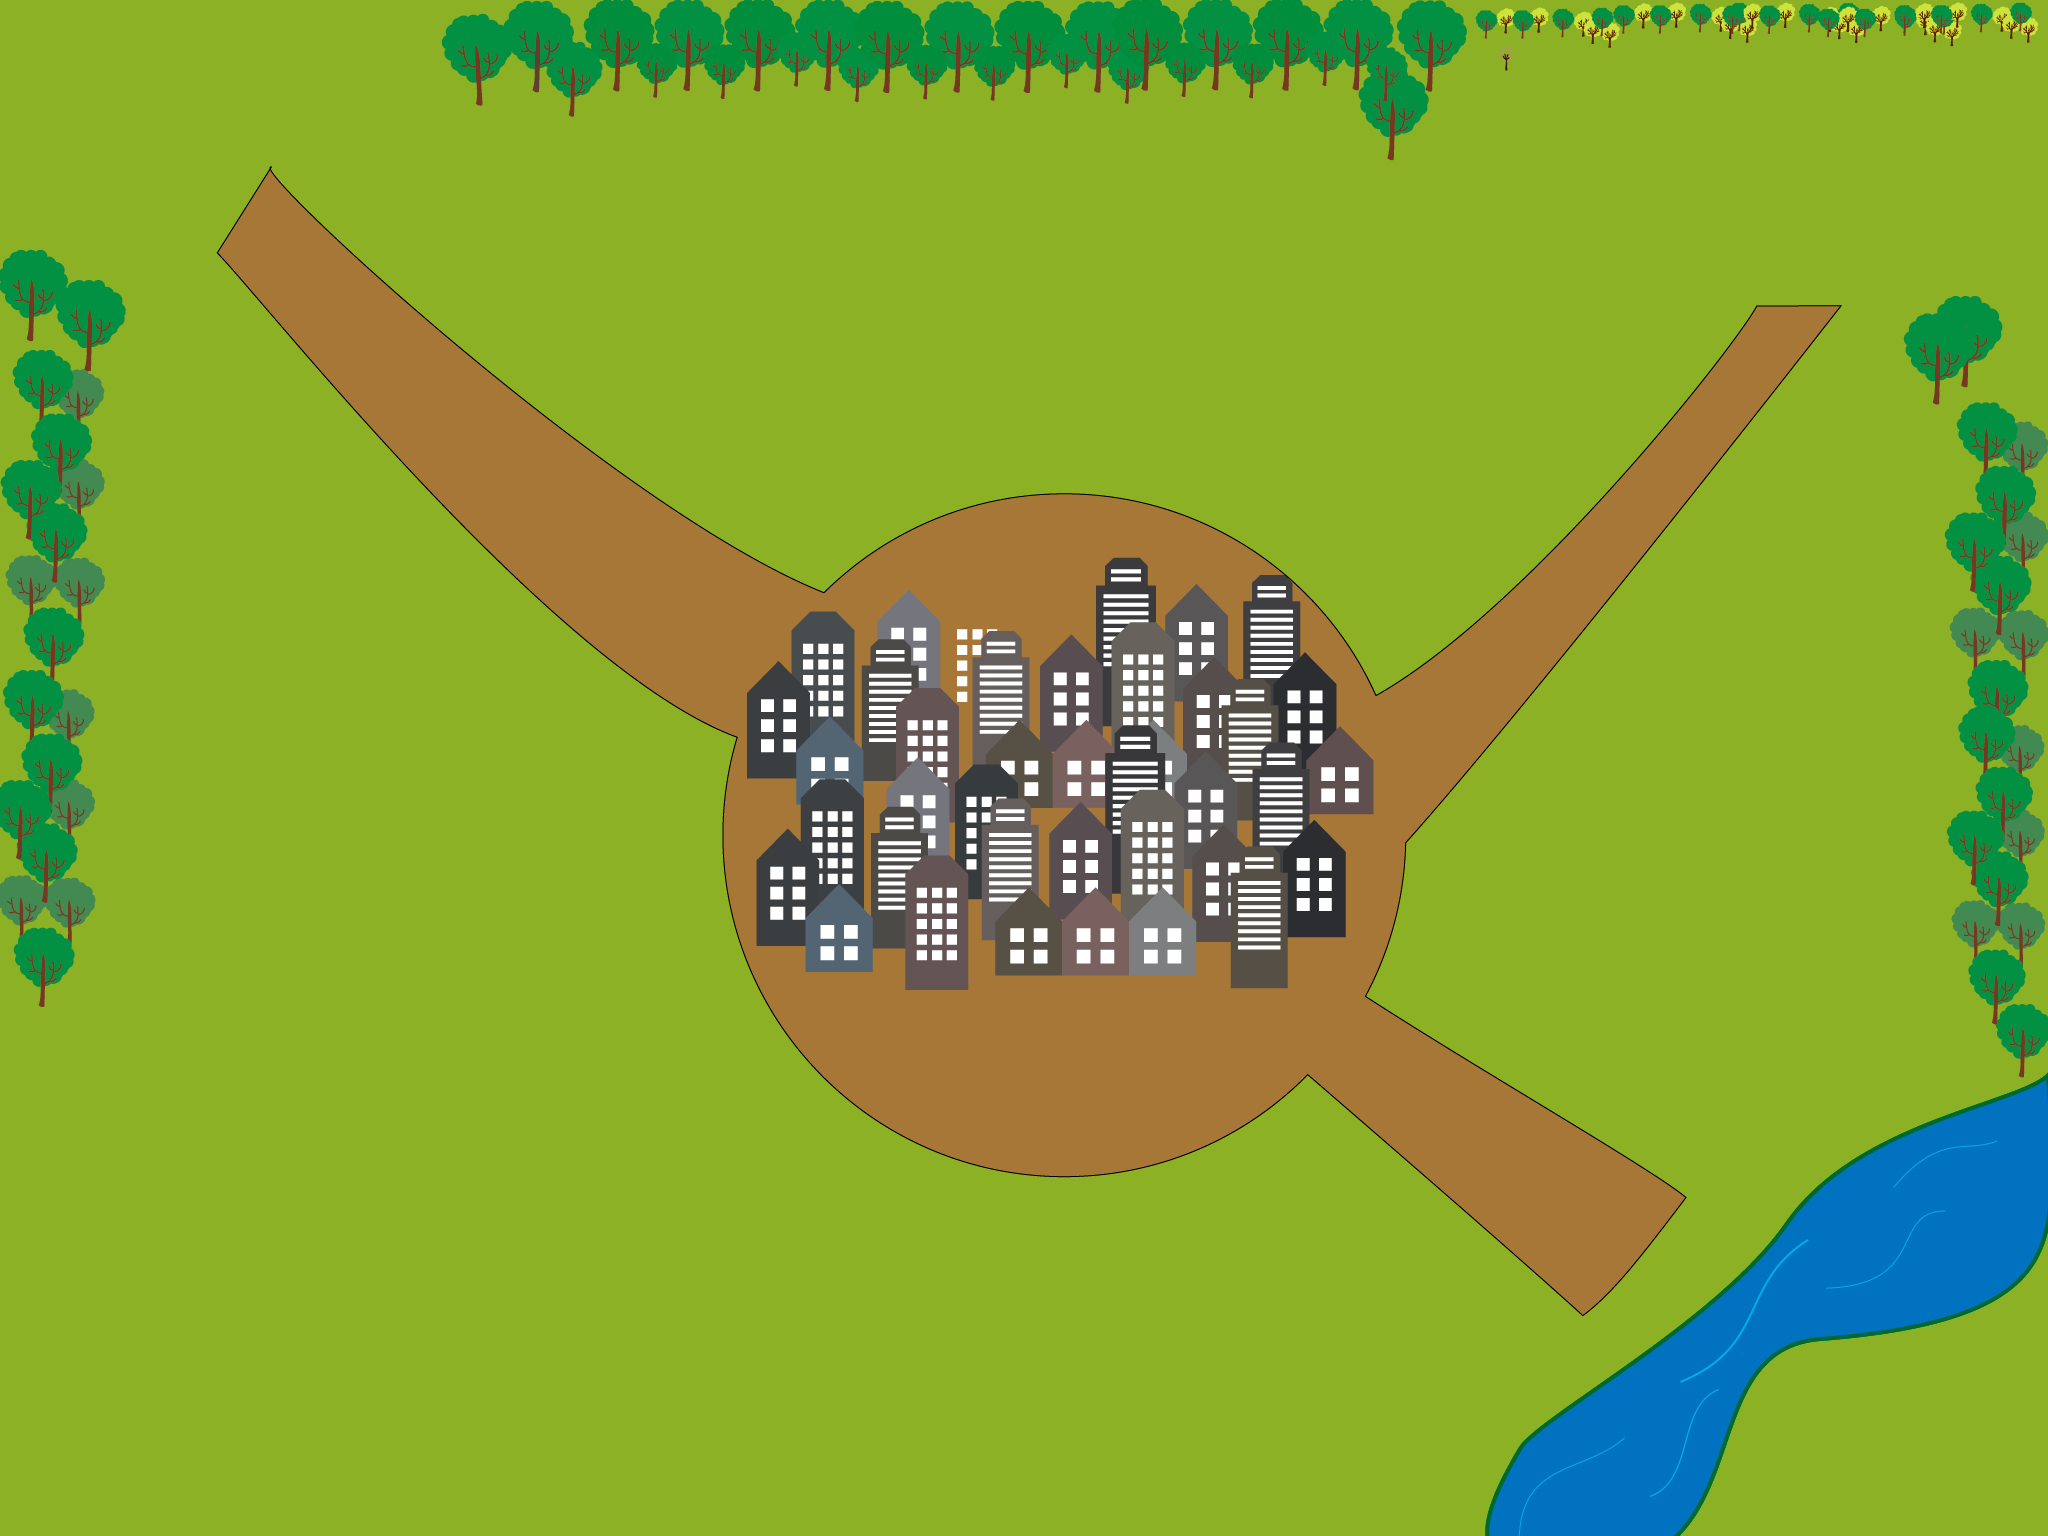
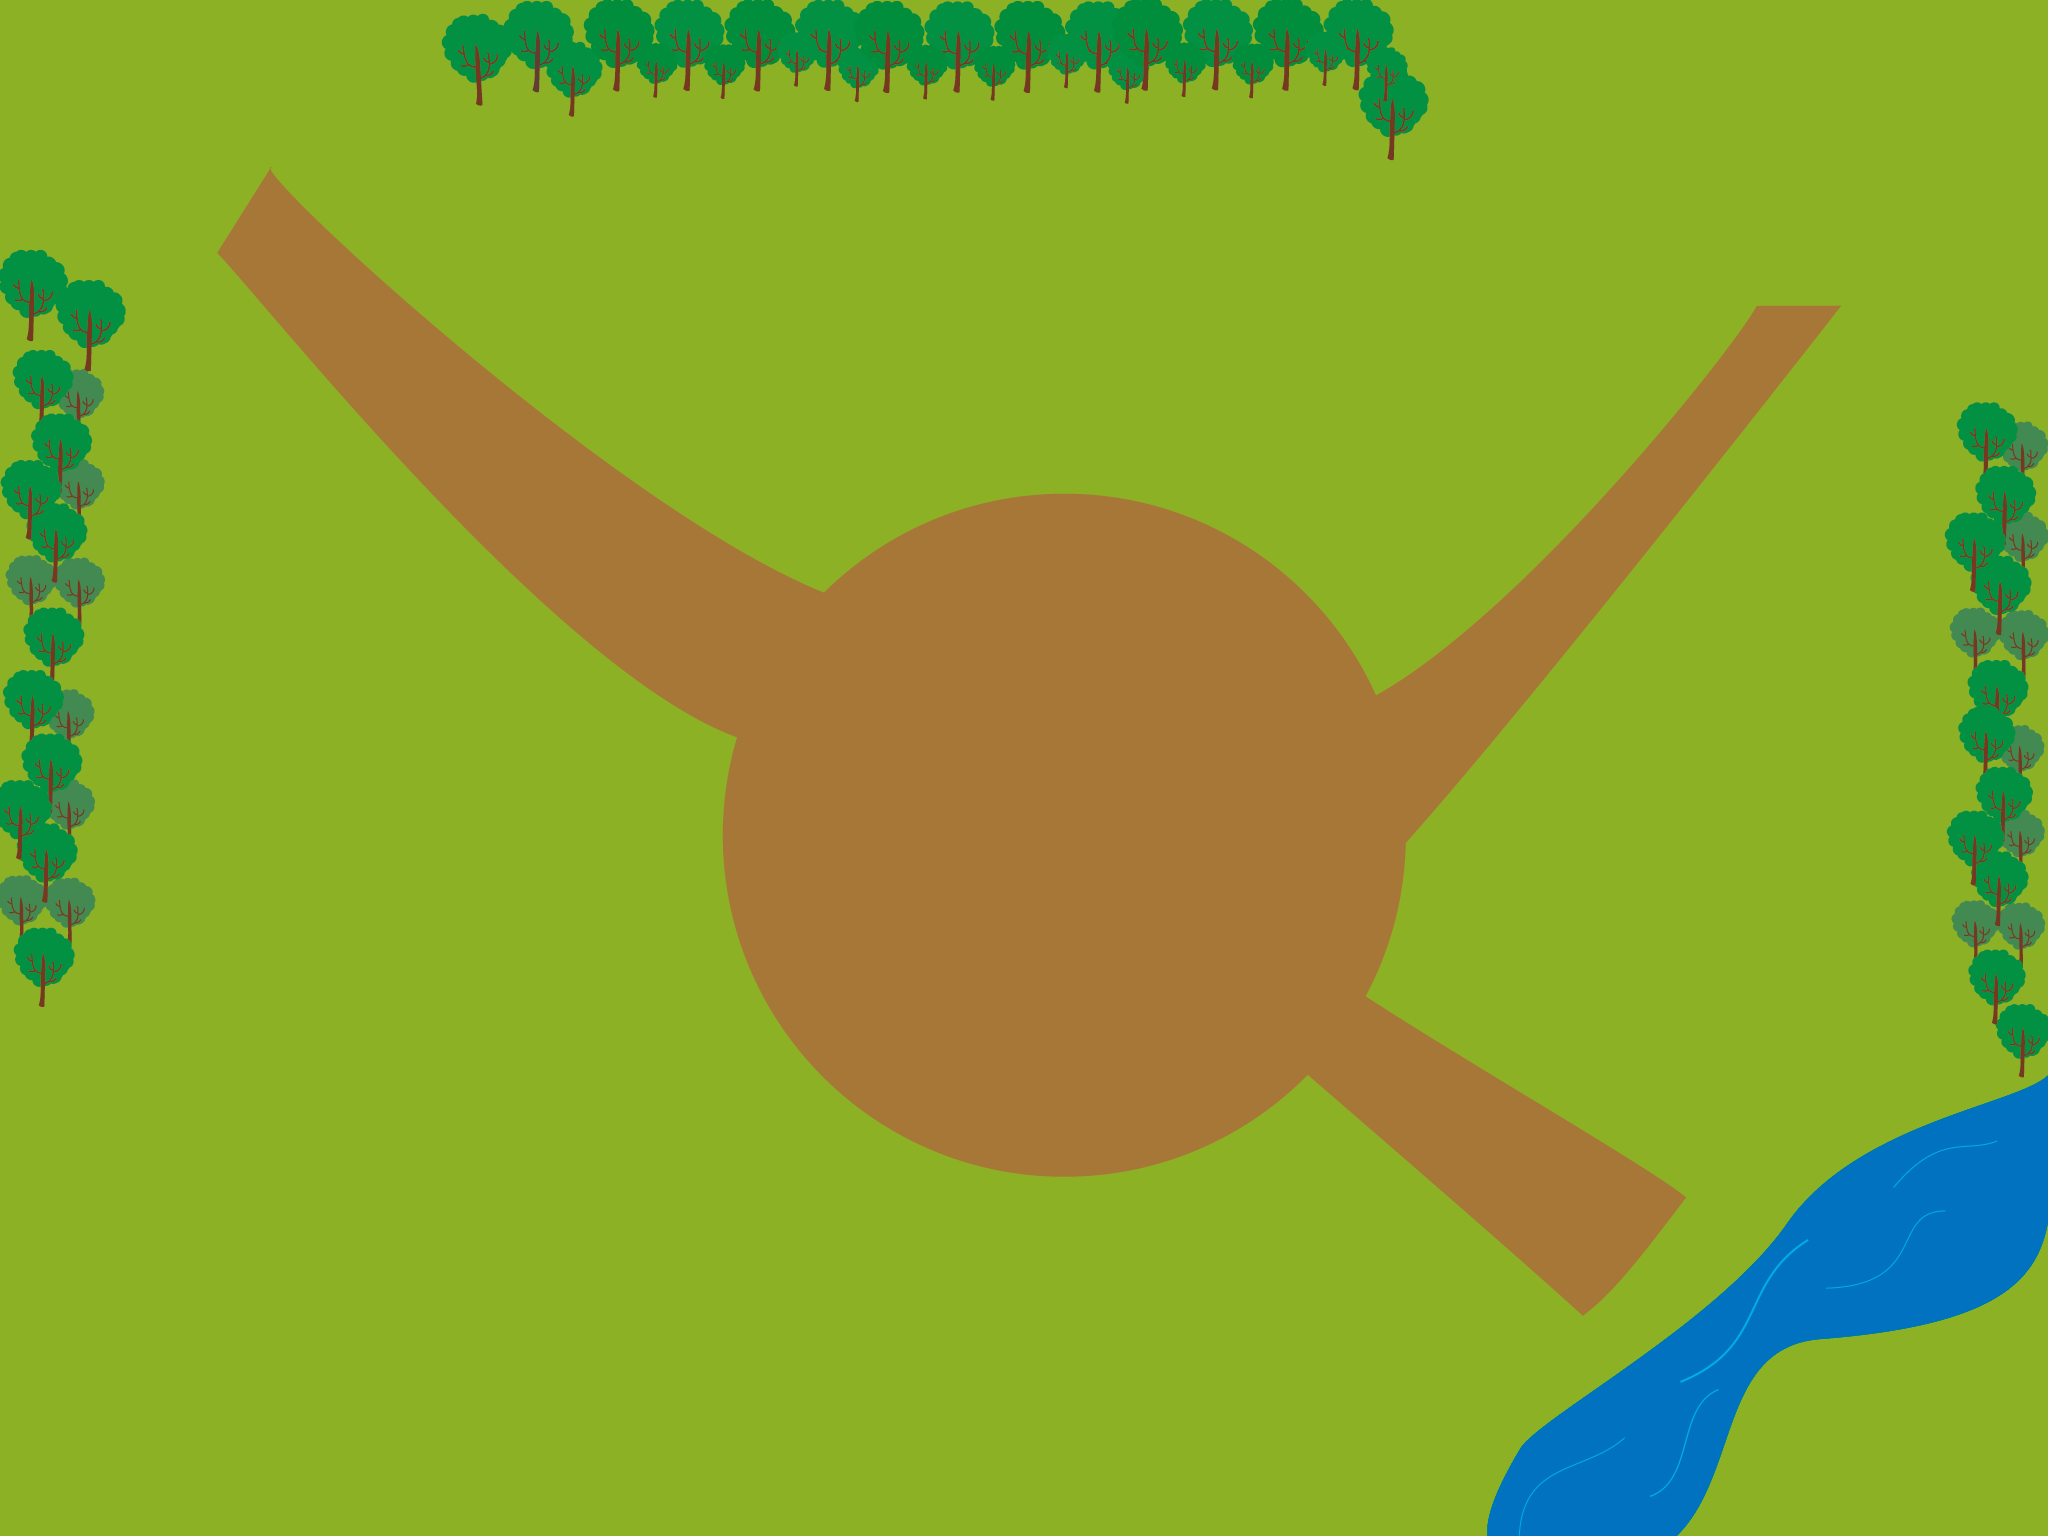
Atualizacao da imagem do menuCasa e retirado ação de voltar em qualquer lugar da tela

diff --git a/CasaScene.swift b/CasaScene.swift
@@ -59,7 +59,7 @@ class CasaScene: SKScene, GameStateDelegate {
     var voltarButton = SKSpriteNode()
     var sky = SKSpriteNode()
     
-    //CHECKING ddd
+    //CHECKING
     var checkQuarto = SKSpriteNode(imageNamed: "botVoltar.png")
     var checkBanheiro = SKSpriteNode(imageNamed: "botVoltar.png")
     var checkSala = SKSpriteNode(imageNamed: "botVoltar.png")
@@ -312,17 +312,6 @@ class CasaScene: SKScene, GameStateDelegate {
             mask.size.width = CGFloat(54 * acertosCozinha + 5)
             mask.position = CGPoint(x: CGFloat(234 + 27 * acertosCozinha), y: mask.position.y)
         }
-        
-        //VERIFICA SAIDA DO AMBIENTE SEM CLICAR NO BOTAO VOLTAR
-        else if(banheiro.containsPoint(touchLocation) && self.onRoom){
-            println("Chama Cena da Casa")
-            callChecks()
-            hideAll()
-            background.zPosition = camadaMenu
-        }
-            
-        //ADICIONAR A VOLTA DOS OUTROS AMBIENTES (AQUI)
-            
             
         //ATIVA A VOLTA PARA A CASA ATRAVES DO BOTAO DE VOLTAR
         else if (voltarButton.containsPoint(touchLocation) && self.onRoom){
@@ -339,9 +328,6 @@ class CasaScene: SKScene, GameStateDelegate {
             cenarioMapa.scaleMode = SKSceneScaleMode.AspectFill
             self.scene!.view?.presentScene(cenarioMapa, transition: transition)
         }
-            
-        
-
     }
     
     func hideAll(){
@@ -356,7 +342,7 @@ class CasaScene: SKScene, GameStateDelegate {
         textoFinal.zPosition = camadaHide
         estaNoComodo = comodo.nenhum
         
-        //REMOVE NODES DO BANHEIRO
+        //REMOVE OBJETOS DOS AMBIENTES
         for itens in banheiroItems{
             var temp: SKNode = itens
             temp.removeFromParent()
@@ -388,21 +374,15 @@ class CasaScene: SKScene, GameStateDelegate {
             }
             plist = "quarto.plist"
             estaNoComodo = comodo.quarto
-        
         }
         
         if(ambiente == "banheiro"){
-            /*if erroLabel.parent == nil{
-                banheiro.addChild(erroLabel)
-            }*/
             if barra.parent == nil{
                 banheiro.addChild(barra)
                 banheiro.addChild(mask)
             }
             plist = "banheiro.plist"
             estaNoComodo = comodo.banheiro
-
-            
         }
         
         
